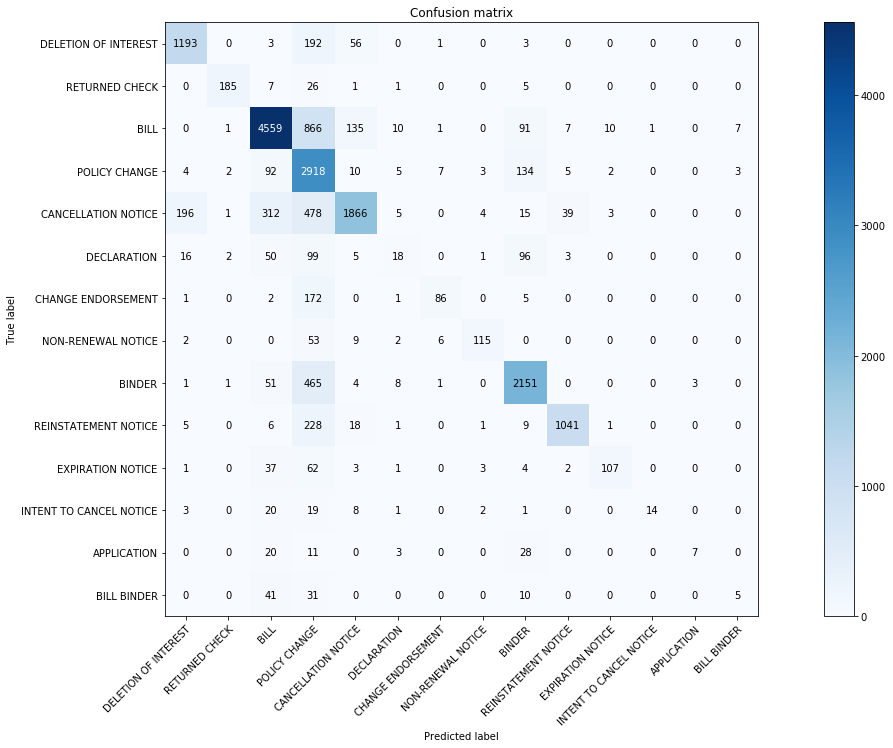
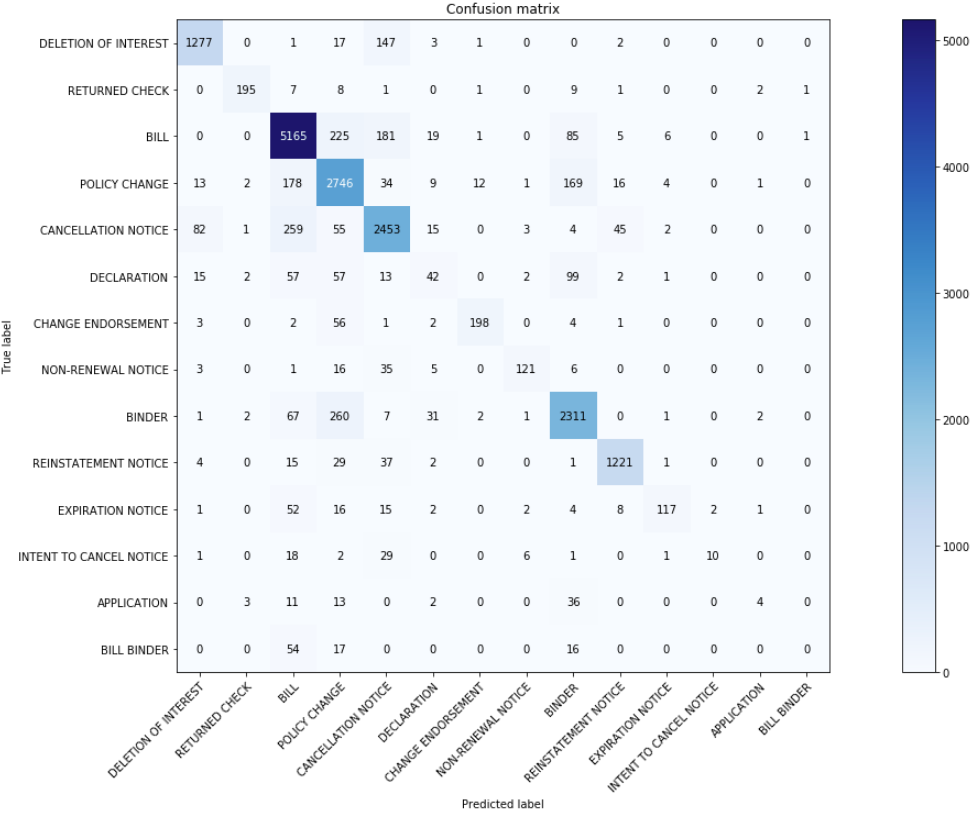
update new results

diff --git a/README.md b/README.md
@@ -42,15 +42,18 @@ The web app is deployed in GCP and available at https://protean-unity-251012.app
 
 ## Results
 
-1. Model training
+1. Accuracy
 
    The results:
 
    |Metrics|ConvNN|LSTM|
    |:------|:----:|:---:|
-   |Accuracy|76%|76%|
+   |Accuracy|85%|76%|
 
-    **F-1 score**
+2. F-1 score
+  
+    - Precision: Minimize False Positive Rate (TP / (TP + FP))
+    - Recall: Minimize False Negative Rate (TP / (TP + FN))
 
     Convolutional Neural Network
 
@@ -60,7 +63,7 @@ The web app is deployed in GCP and available at https://protean-unity-251012.app
     
    ![](pic/f1_LSTM.png)
 
-   **Confusion Matrix**
+3. Confusion Matrix
 
    Convolutional Neural Network
 
@@ -69,6 +72,13 @@ The web app is deployed in GCP and available at https://protean-unity-251012.app
    LSTM
 
     ![](pic/cm_LSTM.png)
+
+4. Conclusion
+
+   |ConvNN|LSTM|
+   |:----:|:---:|
+   |Train faster with comparable result|Train longer|
+  
 
 
 ## How to run
